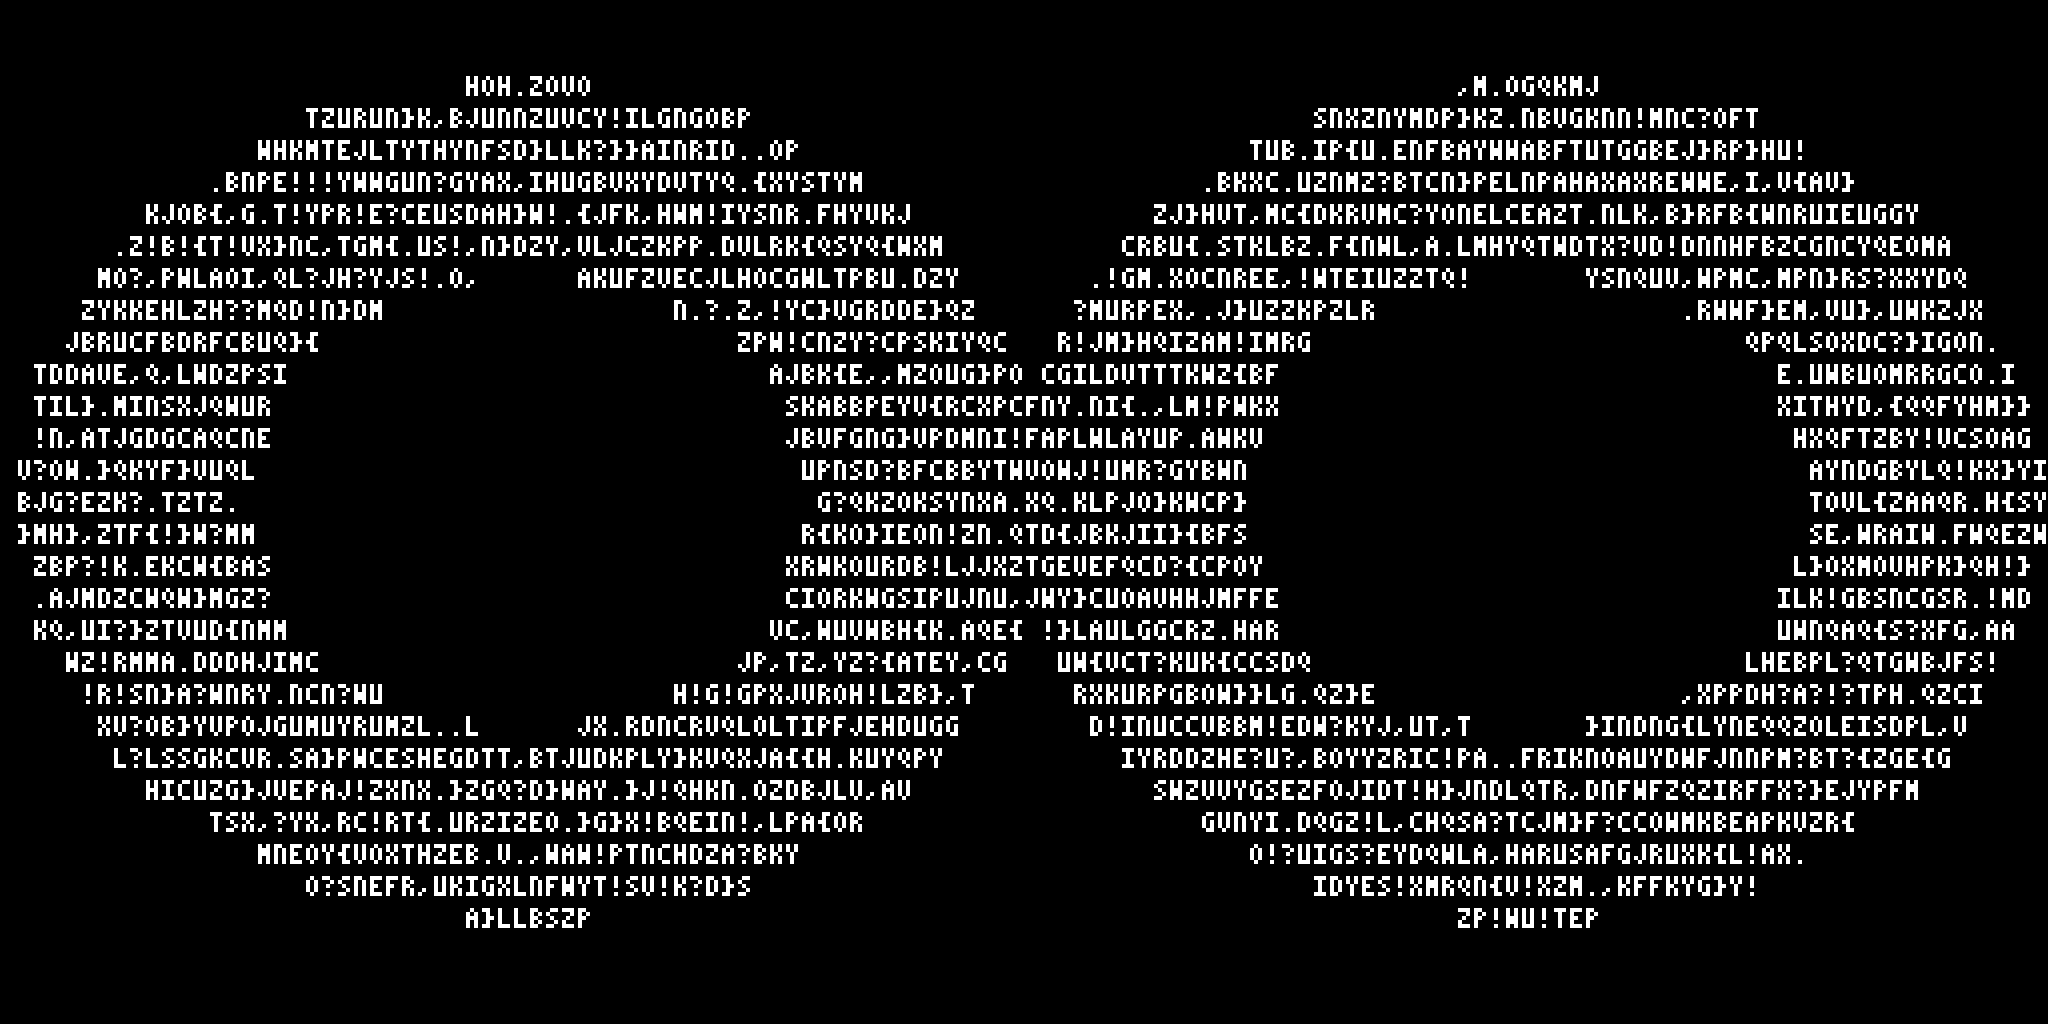
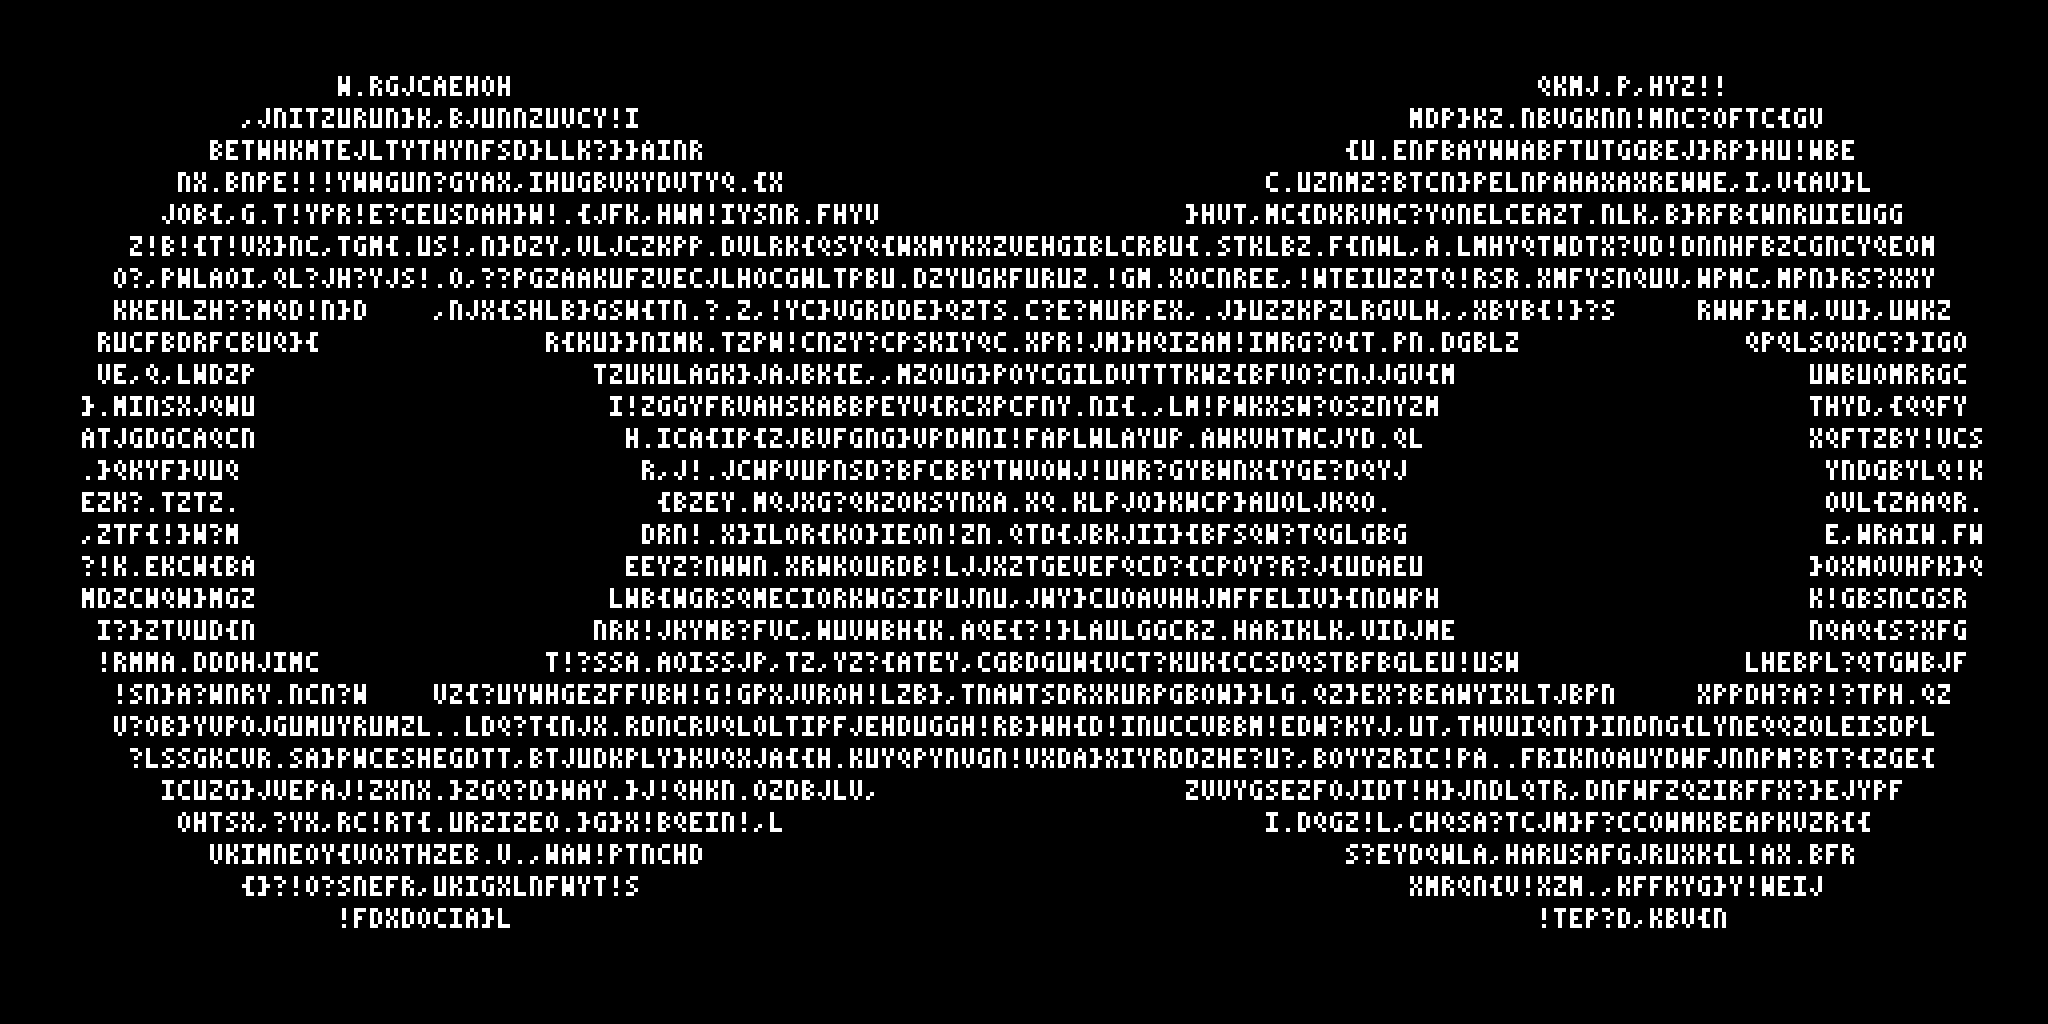
[C] Infinity text is a true lemniscate band (X crossing), p = 3.5 Gerono variant
- mask field (|u|^3.5/a^1.5 - u^2 + 1.4 v^2)/16 with |S| <= 6250, chord slopes over
  128 px pieces, one chain per decoder group; ellipse mask removed
- explored quartic/cubic/eps variants via montages; concerns.md records the trade-offs

diff --git a/art/gen_text_tree.py b/art/gen_text_tree.py
@@ -4,7 +4,7 @@ Generates the text pieces: a grid of pseudo-random characters from a tiny pixel 
 a Rule-30 cellular automaton, optionally masked to a shape (only whole characters are drawn).
 
     python3.10 art/gen_text_tree.py                                  # text.tree (32 glyphs, 1024x1024)
-    python3.10 art/gen_text_tree.py --mask ellipses --name text_infinity            # 2048x1024
+    python3.10 art/gen_text_tree.py --mask lemniscate --name text_infinity          # 2048x1024
 
 Trees are built from a tiny DSL (If / Leaf tuples rendered to jxl_from_tree syntax) so every
 repeated structure (counters, bit accumulation, run-length lookups) is one function.
@@ -420,25 +420,33 @@ def colour_channel(prev_pattern, prev_cc):
 
 # ---------------------------------------------------------------- mask (whole cells only)
 # A cell is blank unless a field S is inside a band at the cell's sample point. Channels cannot
-# be added, so S must be separable: S = f(x) + g(y) - mid with f = (|x - cx| - d)^2 / PIECE_X and
-# g = (y - cy)^2 / PIECE_Y (two elliptical rings, aspect sqrt(PIECE_Y / PIECE_X)); "mid" centres
-# the band so membership is one |S| <= half-width test via the PrevAbs property. Predictors are
-# linear, so f and g are grown by chord slopes over pieces of PIECE px aligned to the centres:
-# with scale = piece the slopes are the small odd integers 1, 3, 5, ... and the accumulated value
-# is exact at every breakpoint (the curve deviates from the ellipse by < 10 px between them).
-ELLIPSES = dict(offset=0.244, r_in=0.1416, r_out=0.254, piece_x=192, piece_y=128)   # radii as fractions of width
+# be added, so S must be separable: Gerono's figure-eight y^2 = x^2 - x^4/a^2 is, and so are
+# its cousins y^2 = x^2 - |x|^p/a^(p-2). Lower p thickens the tips (the quartic's tips are half
+# as thick as its tops) but shallows the lobes' minimum so the holes close; p = 3.5 balances:
+#   S = (|u|^p / a^(p-2) - u^2 + k v^2) / SCALE,  u = x - cx, v = y - cy,  p = power
+# and the band -eps_in < S <= eps_out is a thick lemniscate that crosses itself at 45 degrees
+# (a level-set band bulges at the crossing, where the gradient vanishes: the knot is ~1.3x the
+# stroke for bold strokes, worse for thin ones). Centring the band makes membership one
+# |S| <= half-width test via PrevAbs.
+# Predictors are linear, so the polynomials are grown by rounded chord slopes over PIECE-px
+# pieces aligned to the centre; the value is exact at breakpoints and off by a few px between.
+LEMNISCATE = dict(power=3.5, a=0.44, k=1.4, eps_in=100000, eps_out=100000, scale=16, piece_x=128, piece_y=128)
+# a: lobe tips at cx +- a*W; k: vertical squash; eps in px^2 units (stroke ~ 2 eps / |grad S|)
 
 
-def ellipse_geometry(canvas):
+def lemniscate_geometry(canvas):
     """
-    Pure function. (cx, cy, d, r_in, r_out) in pixels for a canvas.
+    Pure function. (cx, cy, a, k, mid, half_width) in field units for a canvas.
 
     Examples:
-        >>> ellipse_geometry((2048, 1024))
-        (1024, 512, 500, 290, 520)
+        >>> lemniscate_geometry((2048, 1024))[:3]
+        (1024, 512, 901)
     """
     w, h = canvas
-    return w // 2, h // 2, round(ELLIPSES["offset"] * w), round(ELLIPSES["r_in"] * w), round(ELLIPSES["r_out"] * w)
+    sc = LEMNISCATE["scale"]
+    mid = (LEMNISCATE["eps_out"] - LEMNISCATE["eps_in"]) / (2 * sc)
+    half_width = (LEMNISCATE["eps_out"] + LEMNISCATE["eps_in"]) // (2 * sc)
+    return w // 2, h // 2, round(LEMNISCATE["a"] * w), LEMNISCATE["k"], mid, half_width
 
 
 def chord_pieces(profile, breakpoints, size):
@@ -467,46 +475,44 @@ def piece_chain(prop, pred, pieces):
     return chain(prop, [(split, Leaf(pred, slope)) for split, slope in reversed(pieces[1:])], Leaf(pred, pieces[0][1]))
 
 
-def ellipse_field(canvas):
+def lemniscate_field(canvas):
     """
-    Pure function. Field channel S for the ellipse mask; with two groups each group holds one
-    loop (centre at local x = GROUP - d on the left, x = d on the right).
+    Pure function. Field channel S for the lemniscate mask; with two groups the crossing sits on
+    the group boundary, so the left group holds u in [-1024, 0) and the right one u in [0, 1024).
 
     Examples:
-        >>> render(ellipse_field((1024, 1024))).splitlines()[0]
+        >>> render(lemniscate_field((1024, 1024))).splitlines()[0]
         'if x > 0'
     """
-    cx, cy, d, r_in, r_out = ellipse_geometry(canvas)
-    px, py = ELLIPSES["piece_x"], ELLIPSES["piece_y"]
-    mid = (r_in ** 2 + r_out ** 2) // (2 * px)
-    g = lambda v: (v - cy) ** 2 / py
-    ys = piece_chain("y", "N", chord_pieces(g, [cy + k * py for k in range(-8, 9)], canvas[1]))
+    cx, cy, a, k, mid, _ = lemniscate_geometry(canvas)
+    sc, px, py = LEMNISCATE["scale"], LEMNISCATE["piece_x"], LEMNISCATE["piece_y"]
+    pw = LEMNISCATE["power"]
+    f = lambda u: (abs(u) ** pw / a ** (pw - 2) - u ** 2) / sc
+    g = lambda v: k * v ** 2 / sc
+    ys = piece_chain("y", "N", chord_pieces(lambda y: g(y - cy), [cy + j * py for j in range(-8, 9)], canvas[1]))
 
-    def loop(centre, size):        # one loop centred at `centre` in local coordinates
-        f = lambda t: (t - centre) ** 2 / px
-        xs = piece_chain("x", "W", chord_pieces(f, [centre + k * px for k in range(-8, 9)], size))
-        return xs, Set(round(f(0) + g(0)) - mid)
+    def half(centre, size):        # chain over local x in [0, size) with u = x - centre
+        fx = lambda x: f(x - centre)
+        xs = piece_chain("x", "W", chord_pieces(fx, [centre + j * px for j in range(-16, 17)], size))
+        return xs, Set(round(fx(0) + g(-cy) - mid))
 
     if canvas[0] > GROUP:
-        (xs_l, base_l), (xs_r, base_r) = loop(GROUP - d, GROUP), loop(d, canvas[0] - GROUP)
+        (xs_l, base_l), (xs_r, base_r) = half(GROUP, GROUP), half(0, canvas[0] - GROUP)
         xs, base = per_group(True, xs_l, xs_r), per_group(True, base_l, base_r)
     else:
-        f = lambda x: (abs(x - cx) - d) ** 2 / px
-        breaks = [cx] + [cx + s * d + k * px for s in (-1, 1) for k in range(-8, 9)]
-        xs, base = piece_chain("x", "W", chord_pieces(f, breaks, canvas[0])), Set(round(f(0) + g(0)) - mid)
+        xs, base = half(cx, canvas[0])
     return If("x", 0, xs, If("y", 0, ys, base))
 
 
-def ellipse_gate(canvas, prev_field):
+def lemniscate_gate(canvas, prev_field):
     """
     Pure function. gate(update) for value_channel: BLANK unless |S| <= half-width.
 
     Examples:
-        >>> render(ellipse_gate((2048, 1024), "Prev")(Set(1))).splitlines()[0]
-        'if PrevAbs > 485'
+        >>> render(lemniscate_gate((2048, 1024), "Prev")(Set(1))).splitlines()[0]
+        'if PrevAbs > 6250'
     """
-    _, _, _, r_in, r_out = ellipse_geometry(canvas)
-    half_width = (r_out ** 2 - r_in ** 2) // (2 * ELLIPSES["piece_x"])
+    half_width = lemniscate_geometry(canvas)[5]
     return lambda update: If(prev_field + "Abs", half_width, Set(BLANK), update)
 
 
@@ -525,7 +531,7 @@ def build_piece(charset, mask, canvas):
         '/* text.tree — GENERATED by art/gen_text_tree.py; edit the generator, not this file.'
     """
     assert len(charset) & (len(charset) - 1) == 0 and " " not in charset, "power-of-two size, no blank"
-    assert mask in (None, "ellipses") and canvas[1] <= GROUP and canvas[0] <= 2 * GROUP
+    assert mask in (None, "lemniscate") and canvas[1] <= GROUP and canvas[0] <= 2 * GROUP
     bits = len(charset).bit_length() - 1
     sample_y0 = GLYPH_Y0 - bits
     two_groups = canvas[0] > GROUP
@@ -536,10 +542,10 @@ def build_piece(charset, mask, canvas):
     prev = lambda here, there: "Prev" + (str(names.index(here) - names.index(there)) if names.index(here) - names.index(there) > 1 else "")
     trees = {}
     if mask:
-        trees["S"] = ellipse_field(canvas)
+        trees["S"] = lemniscate_field(canvas)
     trees["cc"] = cell_counter()
     trees["A"] = rule30(two_groups)
-    gate = ellipse_gate(canvas, prev("V", "S")) if mask else None
+    gate = lemniscate_gate(canvas, prev("V", "S")) if mask else None
     trees["V"] = value_channel(bits, prev("V", "A"), prev("V", "cc"), sample_y0, gate)
     trees["P"] = pattern_channel(order, prev("P", "V"), prev("P", "cc"))
     trees["R"] = colour_channel(prev("R", "P"), prev("R", "cc"))
@@ -572,7 +578,7 @@ def generate(charset16=False, mask=None, name=None, width=None, height=1024):
 
     Examples:
         >>> # generate()                                                       -> text.tree
-        >>> # generate(mask="ellipses", name="text_infinity")  -> text_infinity.tree (2048x1024)
+        >>> # generate(mask="lemniscate", name="text_infinity")  -> text_infinity.tree (2048x1024)
     """
     charset = CHARSET_16 if charset16 else CHARSET_32
     canvas = (width or (2 * GROUP if mask else GROUP), height)

diff --git a/claude_instructions.md b/claude_instructions.md
@@ -97,6 +97,9 @@ looking at the decoded PNG (the "VLM check"), no agents for the first pass.
 > "the infinity no longer looks rounded it looks like the HSBC logo"
 > "also does it even use all the letters and !.{} etc"
 
+> "an infinity symbol's derivitive in the middle should lok like an X but it doesn't look like a
+> mobius it looks like 2 circles next to each other"
+
 Claude's reading: "ASCII texts ... randomly" = a grid of pseudo-random ASCII characters (letters and/or
 digits) rendered as pixel glyphs, analogous to the 1/0 grid. "WOM problems" = write-only-memory:
 installs that leave no trace in the dump. Top level therefore holds `setup.sh` next to the manifest.
@@ -187,10 +190,10 @@ propagation (`N +- b` down a column, `W +- 3` along a row, sign flip at u = 0 gi
 colour directly (255 white / 178 red / 60 blue); G and B are derived from R by two thresholds.
 Colours: white, Old Glory red (178,34,52), Old Glory blue (60,59,110).
 
-### text — art/trees/text.tree (346 B, 1024x1024) and text_infinity.tree (440 B, 2048x1024), GENERATED by art/gen_text_tree.py
+### text — art/trees/text.tree (346 B, 1024x1024) and text_infinity.tree (471 B, 2048x1024), GENERATED by art/gen_text_tree.py
 Regenerate with `python3.10 art/gen_text_tree.py` and
-`python3.10 art/gen_text_tree.py --mask ellipses --name text_infinity` (add `--charset16` for the
-16-letter 354 B variant).
+`python3.10 art/gen_text_tree.py --mask lemniscate --name text_infinity` (add `--charset16` for a
+16-letter variant that saves ~85 B).
 Edit the generator, never the .tree files. The generator is a tiny tree DSL (`If`, `Leaf`, `Set`,
 `chain`, `runs_tree`, `dispatch`) plus one function per channel, so nothing is pasted twice.
 - Cells 16x32; ONE hidden counter `cc = 32*xm + ym` (both cell coordinates are thresholds on
@@ -221,15 +224,20 @@ Edit the generator, never the .tree files. The generator is a tiny tree DSL (`If
 - R draws; G and B are `Set 0` deltas under `RCT 3` (G += R, B += R), i.e. greyscale.
 
 Mask (only whole characters are ever drawn — the field is tested once per cell at its sample
-point): channels cannot be added, so a mask field must be separable, S = f(x) + g(y). The shipped
-`ellipses` mask is S = (|x-cx|-d)^2/192 + (y-cy)^2/128 - mid: two elliptical rings (aspect
-sqrt(128/192) = 0.82), geometry as fractions of the width (offset 0.244, radii 0.1416/0.254).
-Predictors are linear, so the quadratics are grown by chord slopes over 192-px (x) / 128-px (y)
-pieces aligned to the centres; with scale = piece the slopes are the small odd integers
-1, 3, 5, ... (cheap, repeated) and the value is exact at every breakpoint (the curve is within
-~10 px of the true ellipse). One channel, ~55 nodes (two groups need a chain per group).
-Tried and dropped (see concerns.md): diamond / clipped-hexagon rings (user: "looks like the HSBC
-logo"), knee-slope hexagons, a true Gerono lemniscate (separable quartic, ~+190 B).
+point): channels cannot be added, so a mask field must be separable, S = f(x) + g(y). Two
+overlapping rings cross at a shallow angle (a lens, user: "should look like an X"), so the
+shipped `lemniscate` mask is a genuine figure-eight: Gerono's y^2 = x^2 - x^4/a^2 generalised to
+S = (|u|^p / a^(p-2) - u^2 + k v^2) / 16 with p = 3.5, a = 0.44 W, k = 1.4 (vertical squash), and
+the band -eps < S <= eps, eps = 100000 px^2, centred so membership is one `|S| <= half-width`
+test via `PrevAbs`. It crosses itself at 45 degrees. A level-set band bulges where the gradient
+vanishes (the knot is ~1.5x the stroke) and thins where it is large (the tips); p = 3.5 balances
+tip thickness against hole size (p = 4 has thin tips, p = 3 closes the holes at the same
+boldness). Predictors are linear, so the polynomials are grown by rounded chord slopes over
+128-px pieces aligned to the centre (exact at breakpoints, a few px off between). The crossing
+sits on the group boundary of the 2048-wide canvas: the left group holds u in [-1024, 0), the
+right u in [0, 1024) (one chain each). ~110 nodes for the field.
+Tried and dropped (see concerns.md): diamond / clipped-hexagon rings ("looks like the HSBC
+logo"), knee-slope hexagons, elliptical rings ("2 circles next to each other").
 
 ### Byte-cost model (measured)
 Baseline ~25 B; **each hidden channel costs 6 B of header**; repetitive trees cost ~1.2 B/node,
@@ -246,7 +254,7 @@ offsets, then fewer nodes. Node removals inside an already-repetitive tree often
 
 ## Success criteria
 
-- Four `.jxl` files in `art/out/` (digits 177 B, flag 222 B, text 346 B, text_infinity 440 B at 2048x1024), each <= 1024 bytes, each >= 1024 px on the short side, each visually correct. (The user's 300 B target for the infinity text was met at 299 B in the square 16-letter version; the wide canvas, round loops and full 32-glyph set they asked for afterwards cost ~140 B more; `--charset16` gives 354 B.)
+- Four `.jxl` files in `art/out/` (digits 177 B, flag 222 B, text 346 B, text_infinity 471 B at 2048x1024), each <= 1024 bytes, each >= 1024 px on the short side, each visually correct. (The user's 300 B target for the infinity text was met at 299 B in the square 16-letter hexagon version; the wide canvas, true lemniscate and full 32-glyph set they asked for afterwards cost ~170 B more; `--charset16` saves ~85 B.)
 - The random choices come from a CA inside the tree, not from a stored table.
 - Fresh session can rebuild everything with `./setup.sh && python3.10 art/build.py`.
 

diff --git a/concerns.md b/concerns.md
@@ -130,3 +130,15 @@
 - Font gained "," "{" "}"; CHARSET_32 = A-Z + "!?.,{}" (no digits now). Both pieces use it.
 - Sizes: text 346 B; text_infinity 440 B (32 glyphs) / 354 B (--charset16). VLM check: round
   overlapping loops, braces and commas legible, no blank glyphs.
+
+## 2026-09-04 04:00 — a real figure-eight
+- User: "an infinity symbol's derivitive in the middle should lok like an X ... it looks like 2
+  circles next to each other". Overlapping rings cross at 2*acos(d/r) ~ 32 degrees: a lens.
+- Mask replaced by a Gerono-type lemniscate band S = (|u|^p/a^(p-2) - u^2 + k v^2)/16, |S| <= eps.
+  Explored (montages): quartic eps 60k had thin tips and a knot 2x the stroke; bold cubic (p = 3)
+  closed the holes because its minimum is only 0.148 a^2 (quartic 0.25 a^2); p = 3.5 with
+  eps = 100k, a = 0.44 W, k = 1.4 gives open holes, tips ~3 chars, a clear 45-degree X.
+- Level-set bands cannot have uniform stroke: thickness = 2 eps / |grad S|, zero gradient at the
+  crossing. Bolder strokes make the knot *relatively* smaller (ratio ~ sqrt(a / stroke)).
+- Sizes: text_infinity 471 B (32 glyphs; the polynomial needs a chain per group, ~+30 B over
+  the ellipses), text 346 B. Removed the ellipse mask code (git history has it).

diff --git a/.claude_todo.md b/.claude_todo.md
@@ -10,7 +10,7 @@ then "make it bigger and fit the aspect ratio ... more letters and not square", 
 - [x] digits (177 B), flag (222 B after golf)
 - [x] Generator rewrite around a tree DSL; text golf (rows-pattern lookup, one counter, RCT grey, Rule 30 on = 1024)
 - [x] text_infinity square version 299 B (met the 300 B target)
-- [x] Wide 2048x1024 infinity (two groups), no blank glyph -> 315 B; then round elliptical loops + full 32-glyph set (A-Z !?.,{}) -> 440 B
+- [x] Wide 2048x1024 infinity (two groups), no blank glyph -> 315 B; round ellipses + full 32-glyph set -> 440 B; true lemniscate with X crossing -> 471 B
 - [x] VLM check of text.png / text_infinity.png
 - [x] Manifest + concerns synced
 - [x] Commit, `say "Done with Text"`
